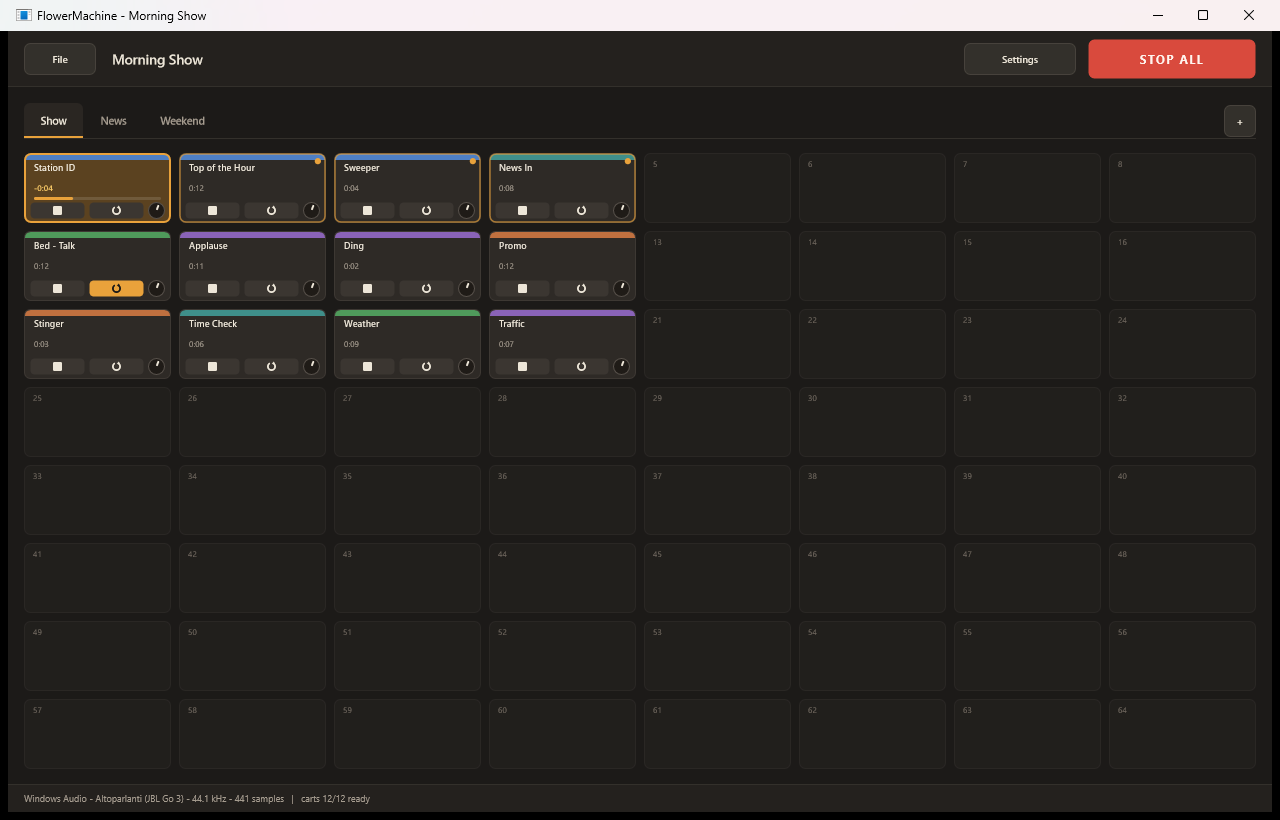
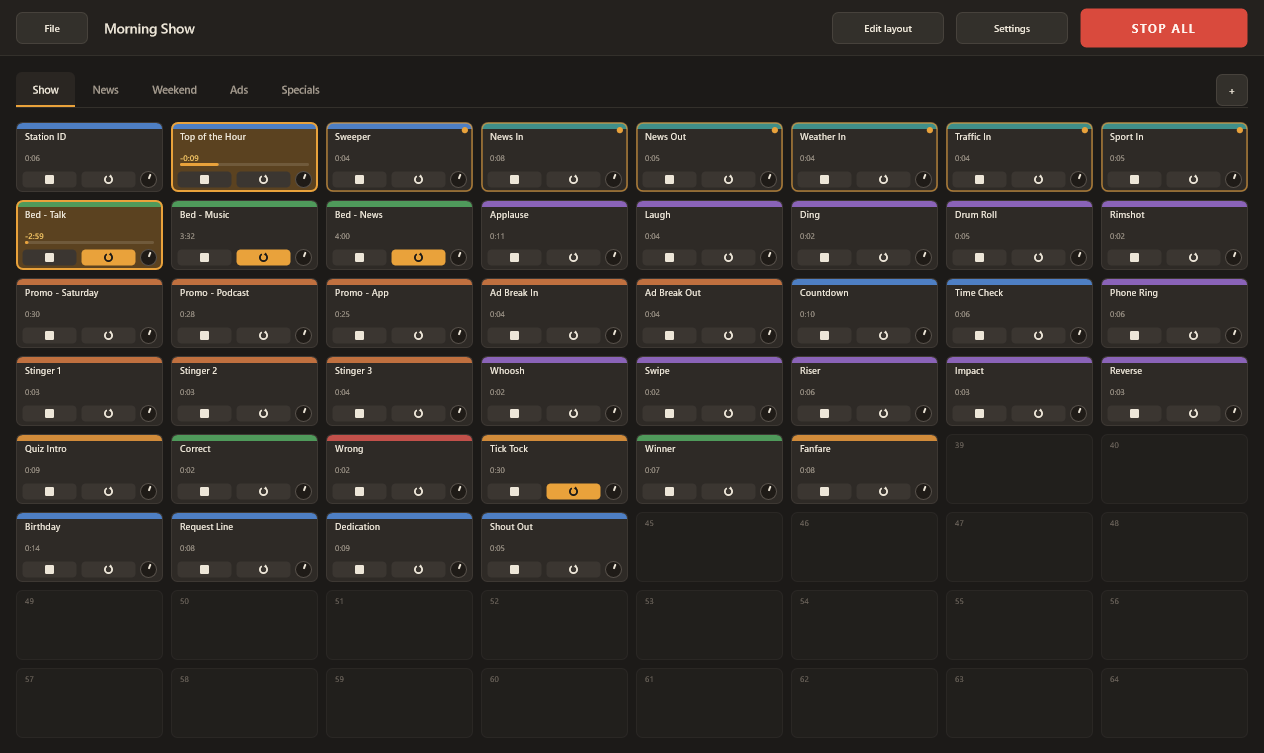
0.5.0: Readme Screenshots;

Changed region(s): [[0.0, 0.0, 1.0, 1.0], [0.216, 0.0916, 0.2468, 0.1222]]

diff --git a/README.md b/README.md
@@ -20,7 +20,7 @@ Windows 10 or later, 64-bit.
 ## Getting it
 
 Download `FlowerMachineSetup.exe` from
-[Releases](https://github.com/CardamomFlower/Flower/releases) and run it.
+[Releases](https://github.com/CardamomFlower/FlowerMachine/releases) and run it.
 
 It installs for you alone, into `%LOCALAPPDATA%\Programs\FlowerMachine`, so it
 never asks for an administrator password. Three tick-boxes, all on to start
